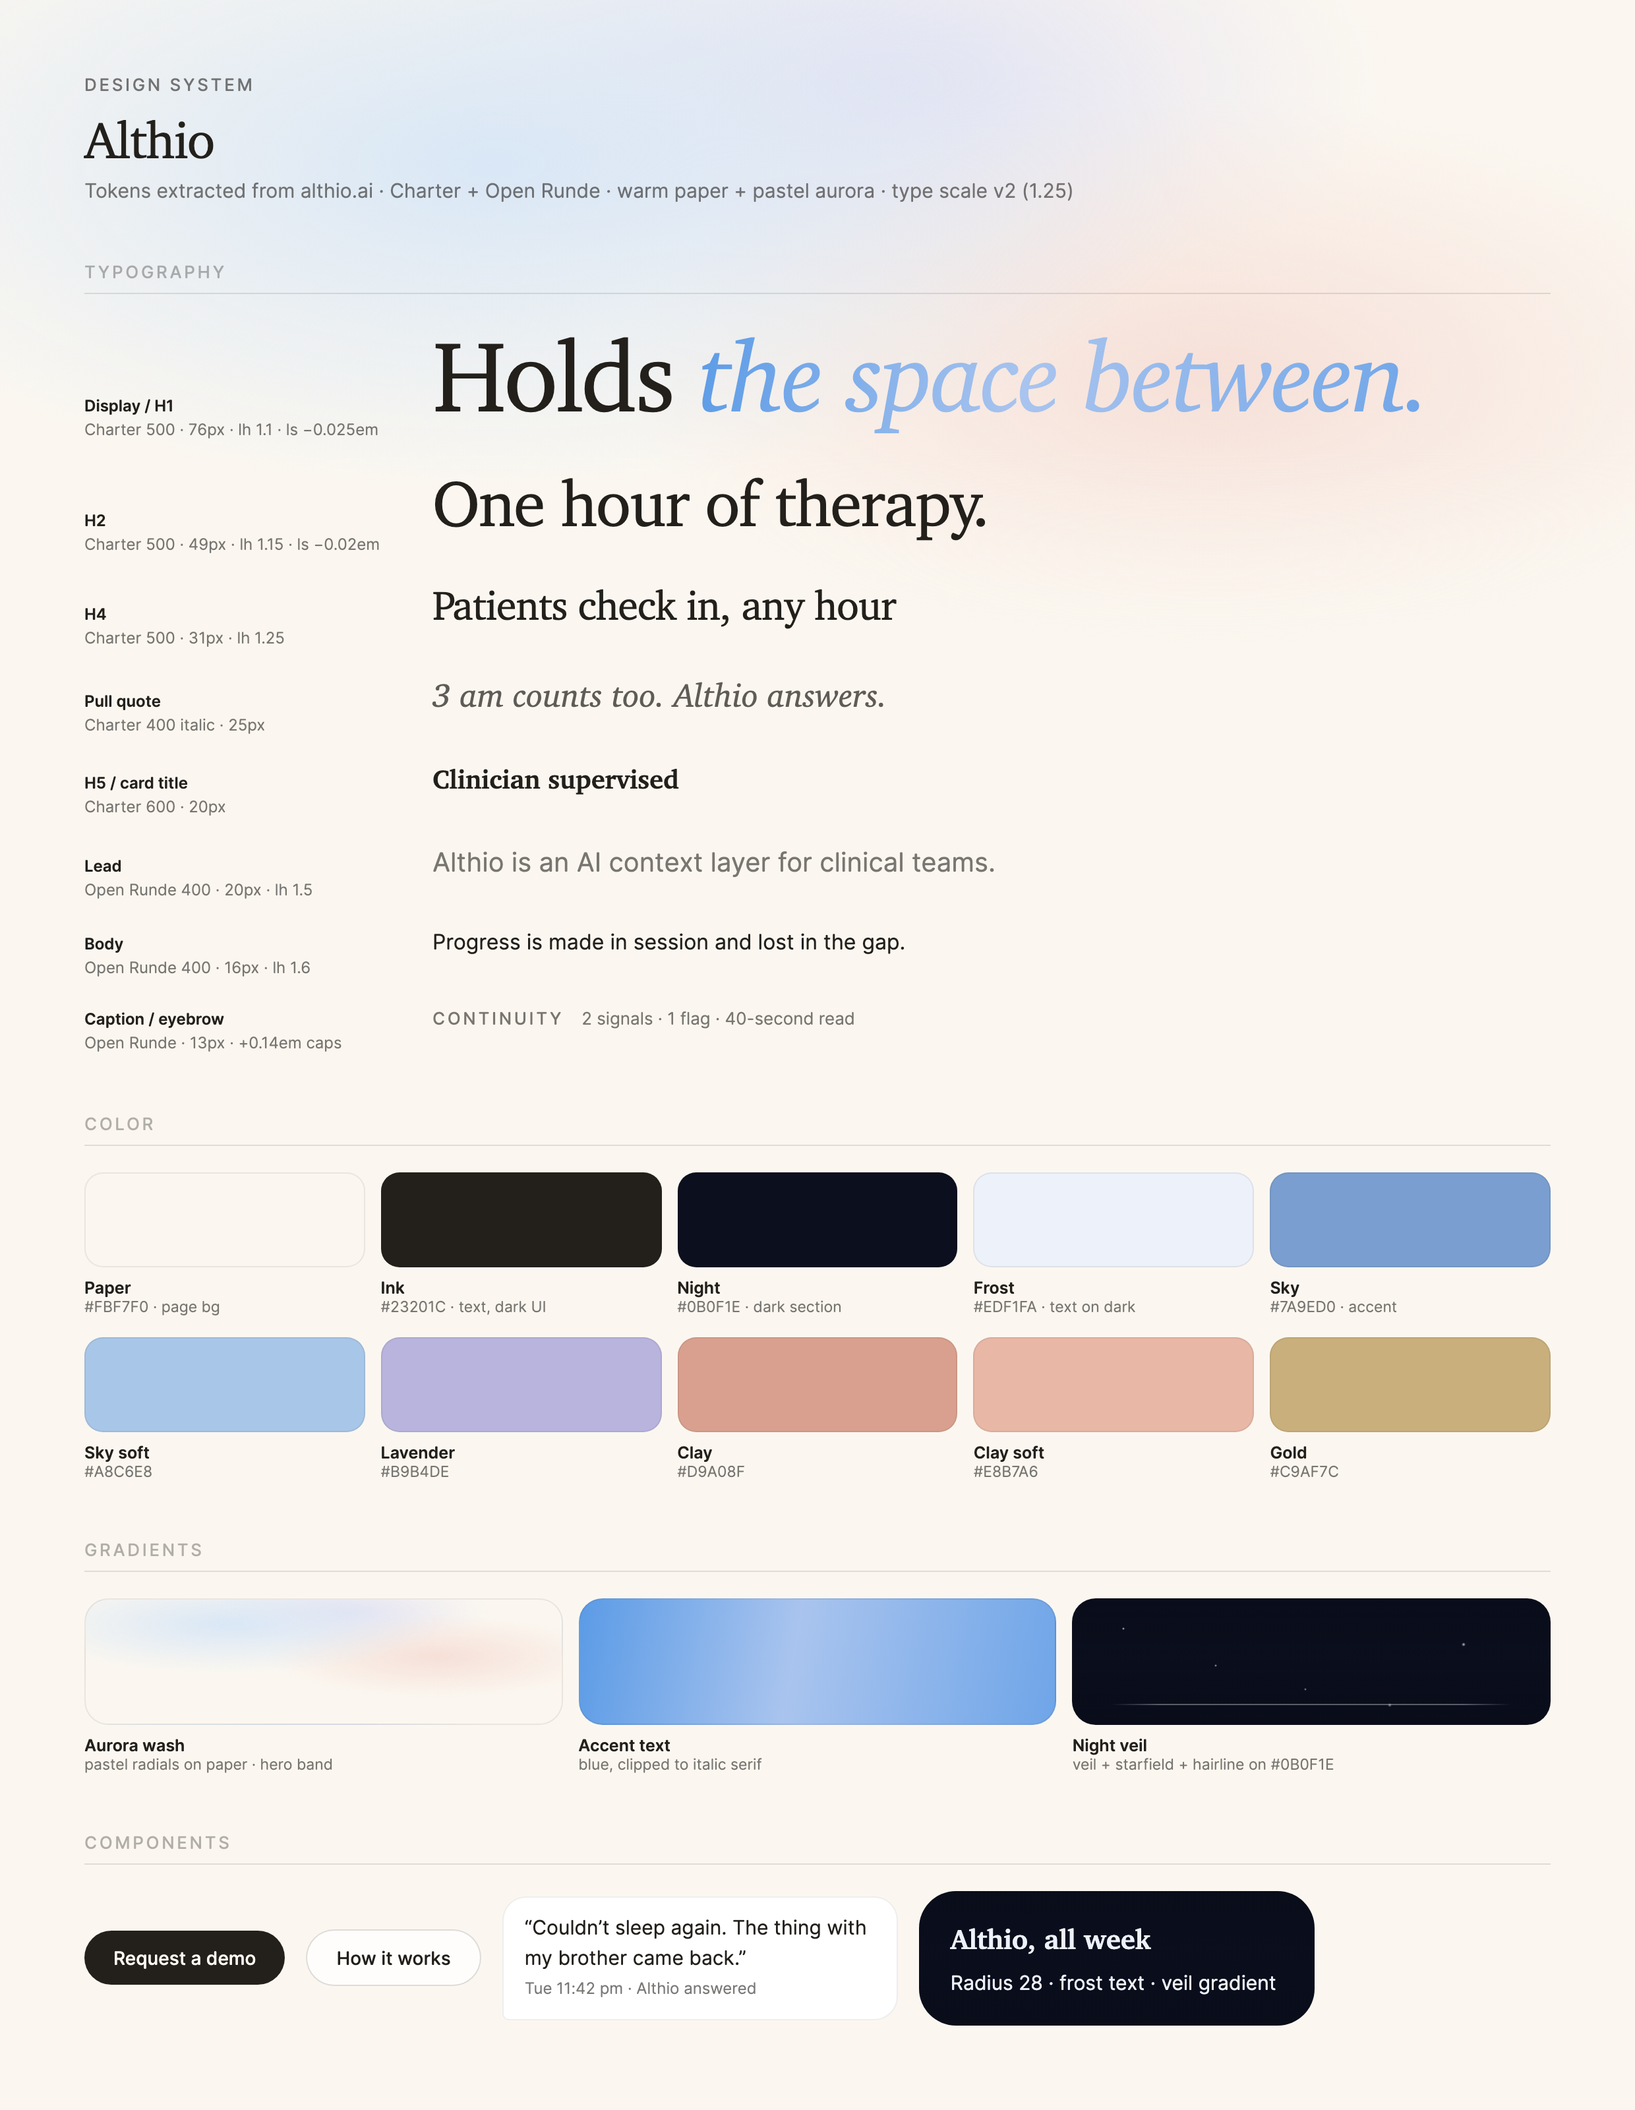
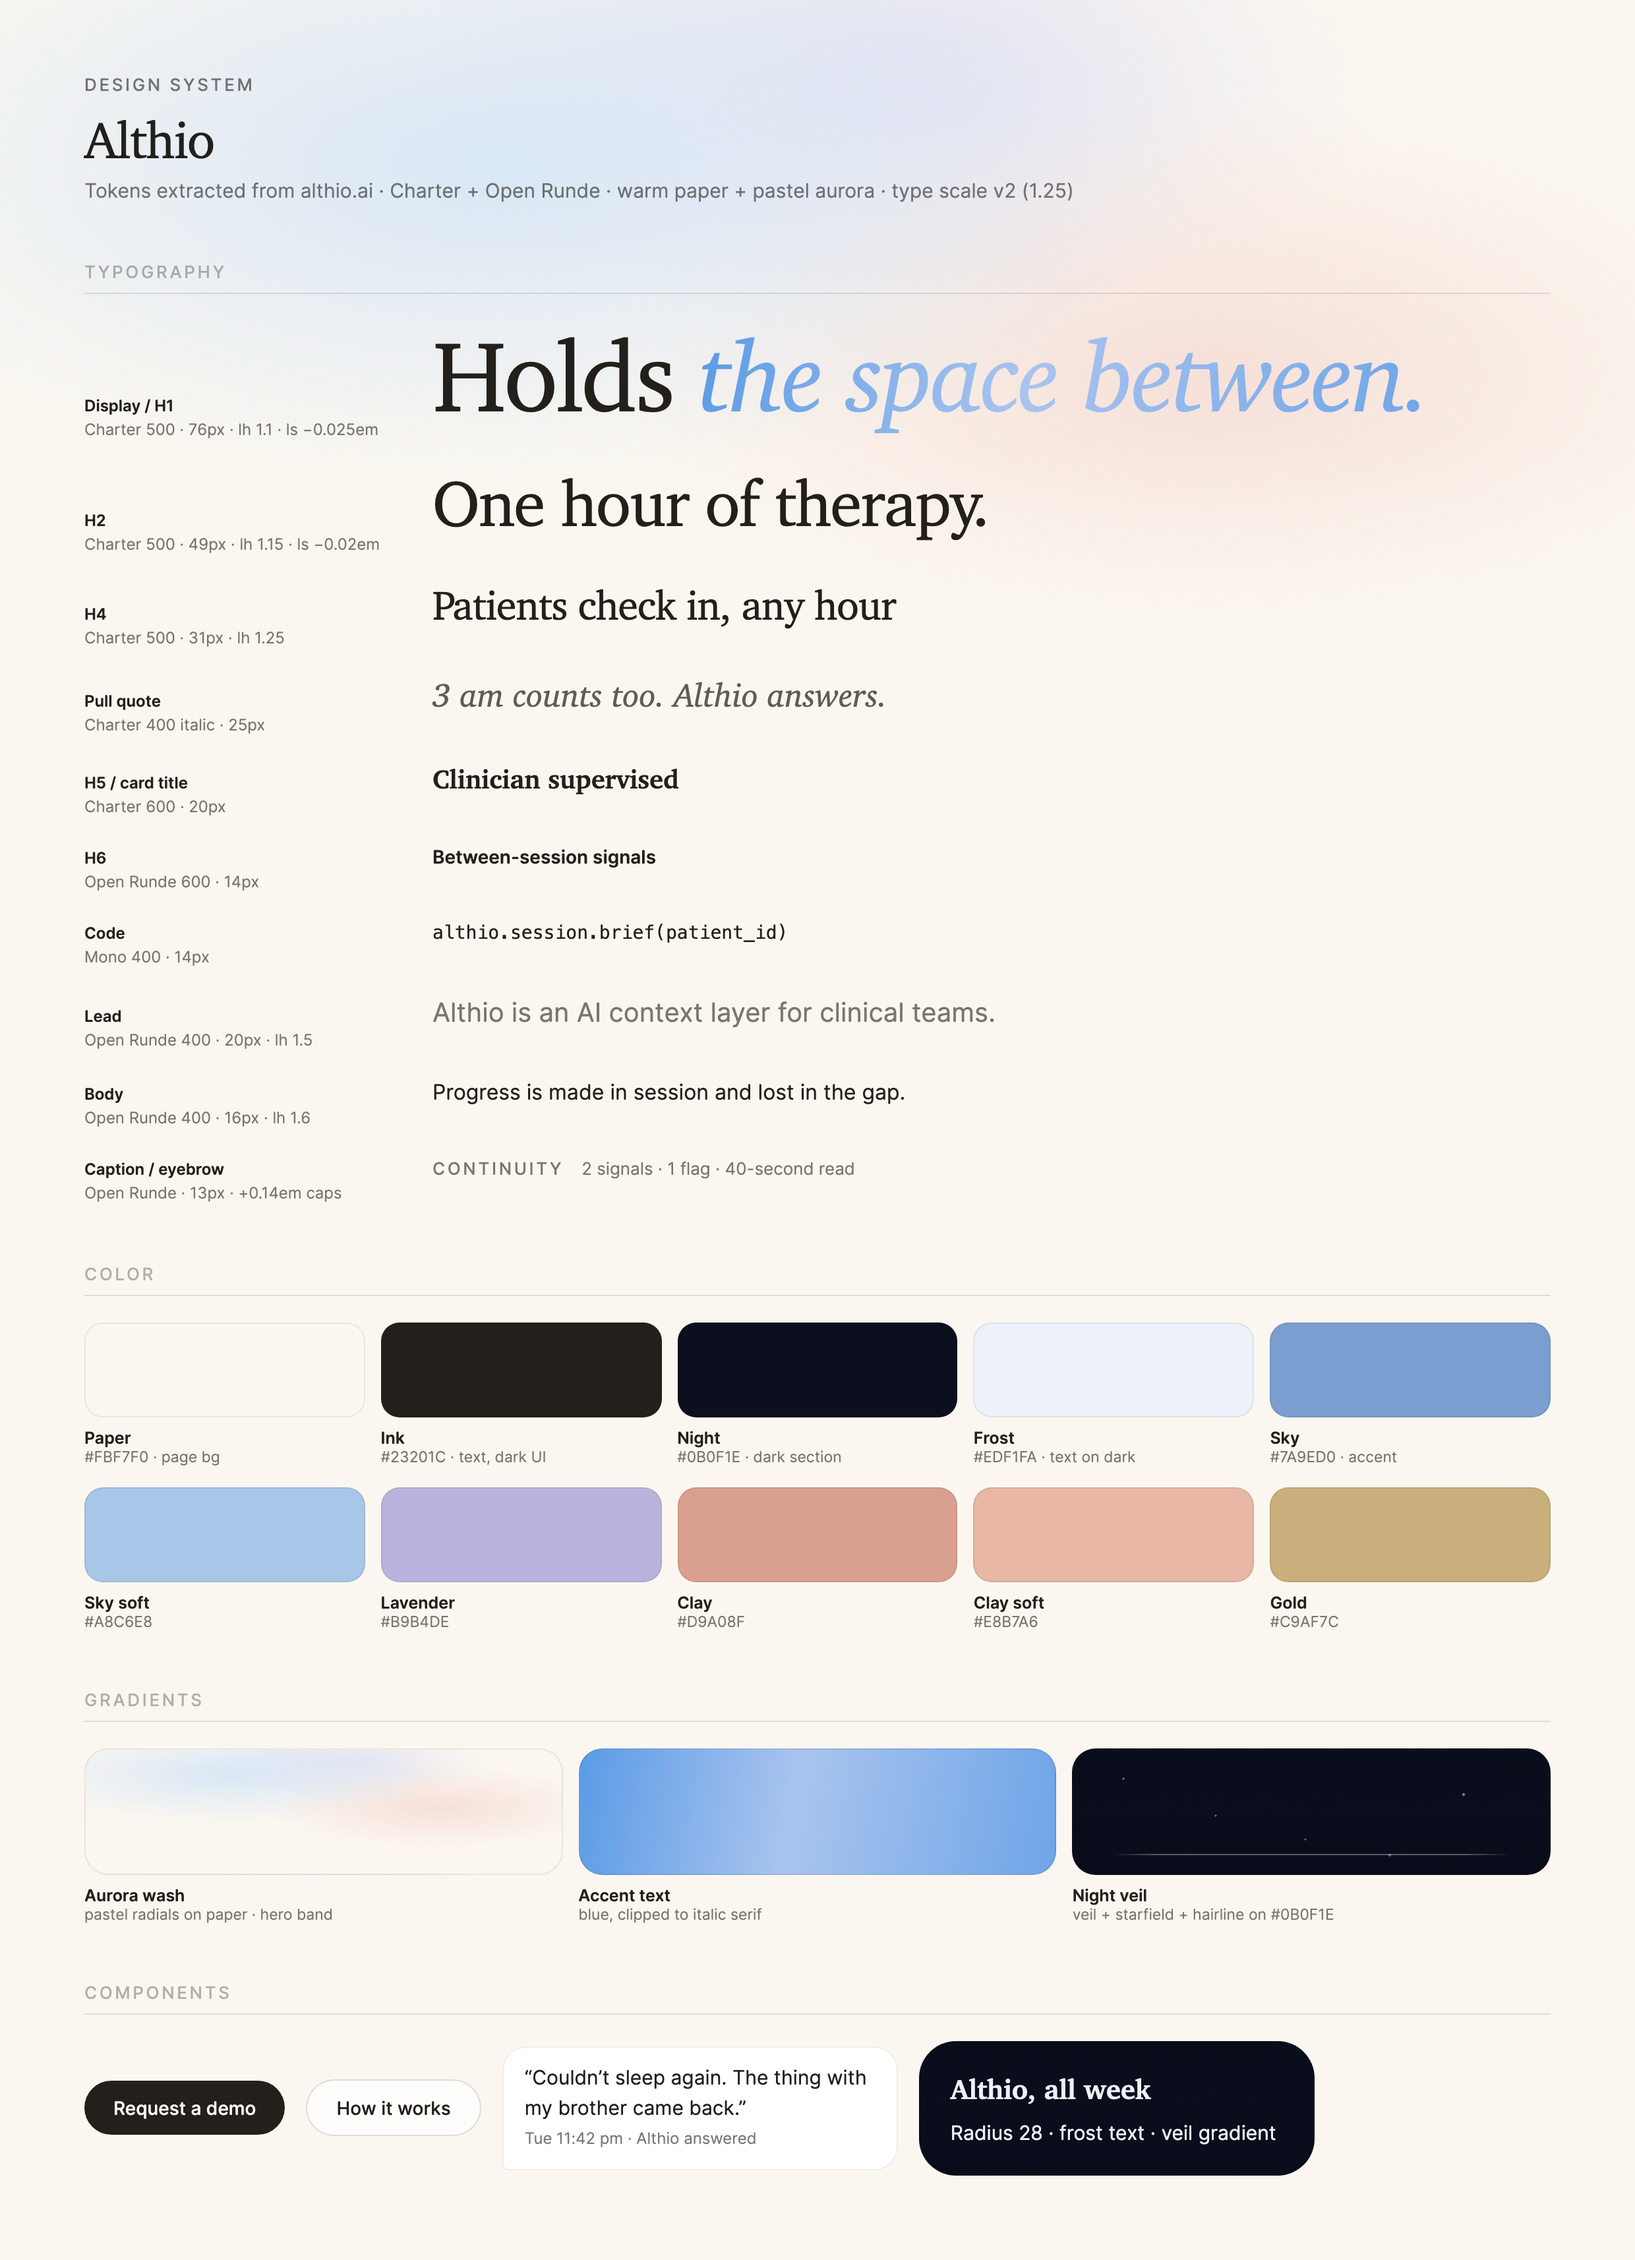
Show H6 and code roles in the specimen; re-render README image
Claude-Session: https://claude.ai/code/session_018RH6YokbGLAhsFFkUcsBTo

diff --git a/specimen/specimen.html b/specimen/specimen.html
@@ -46,6 +46,8 @@
   .h4 { font-family: var(--font-serif); font-size: var(--text-h4); font-weight: 500; letter-spacing: -0.015em; line-height: 1.25; }
   .pull { font-family: var(--font-serif); font-size: var(--text-pull); font-style: italic; line-height: 1.35; color: var(--color-ink-72); }
   .h5 { font-family: var(--font-serif); font-size: var(--text-h5); font-weight: 600; line-height: 1.4; }
+  .h6 { font-size: var(--text-h6); font-weight: 600; line-height: 1.55; }
+  .code { font-family: var(--font-mono); font-size: var(--text-code); line-height: 1.6; }
   .lead { font-size: var(--text-lead); line-height: 1.5; color: var(--color-ink-60); }
   .body { font-size: var(--text-body); line-height: 1.6; }
   .cap { font-size: var(--text-caption); color: var(--color-ink-60); }
@@ -117,6 +119,8 @@
     <div class="spec"><div class="meta"><b>H4</b><br>Charter 500 · 31px · lh 1.25</div><div class="h4">Patients check in, any hour</div></div>
     <div class="spec"><div class="meta"><b>Pull quote</b><br>Charter 400 italic · 25px</div><div class="pull">3 am counts too. Althio answers.</div></div>
     <div class="spec"><div class="meta"><b>H5 / card title</b><br>Charter 600 · 20px</div><div class="h5">Clinician supervised</div></div>
+    <div class="spec"><div class="meta"><b>H6</b><br>Open Runde 600 · 14px</div><div class="h6">Between-session signals</div></div>
+    <div class="spec"><div class="meta"><b>Code</b><br>Mono 400 · 14px</div><div class="code">althio.session.brief(patient_id)</div></div>
     <div class="spec"><div class="meta"><b>Lead</b><br>Open Runde 400 · 20px · lh 1.5</div><div class="lead">Althio is an AI context layer for clinical teams.</div></div>
     <div class="spec"><div class="meta"><b>Body</b><br>Open Runde 400 · 16px · lh 1.6</div><div class="body">Progress is made in session and lost in the gap.</div></div>
     <div class="spec"><div class="meta"><b>Caption / eyebrow</b><br>Open Runde · 13px · +0.14em caps</div><div><span class="eyebrow" style="margin:0">Continuity</span> &nbsp; <span class="cap">2 signals · 1 flag · 40-second read</span></div></div>
